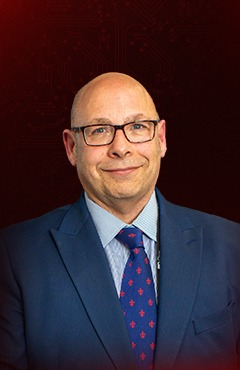
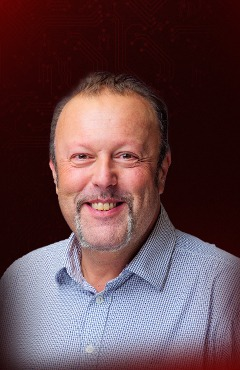
sahil

diff --git a/src/react/Pages/2026/OurSponsors/TigrisPaySponsorDetails.jsx b/src/react/Pages/2026/OurSponsors/TigrisPaySponsorDetails.jsx
@@ -69,7 +69,7 @@ const TigrisPaySponsorDetails = () => {
         rel="noopener noreferrer"
         className="cs-hero sponsor-banner cs-style12 cs-type1 cs-center text-center cs-parallax cs-hobble"
         style={{
-          backgroundImage: 'url("../assets/img/sponsor-logo/Fast-track-money-banner.png")',
+          backgroundImage: 'url("/assets/img/sponsor-logo/sponsor-banner-strip-2026/tigrispay-details-banner-2026.png")',
           height: "300px",
         }}
       >

diff --git a/src/react/Pages/2026/JudgesSection/JamesBorleyJudgeDetails2026.jsx b/src/react/Pages/2026/JudgesSection/JamesBorleyJudgeDetails2026.jsx
@@ -4,7 +4,7 @@ import { useNavigate } from "react-router-dom";
 import { FaLinkedin } from "react-icons/fa";
 
 const judgeData = {
-  name: "James Borley",
+  name: "Mr. James Borley",
   role: "Director for Payment Services",
   company: "Complyport Limited",
   img: "../assets/img/judges2026/james-borley.jpg",
